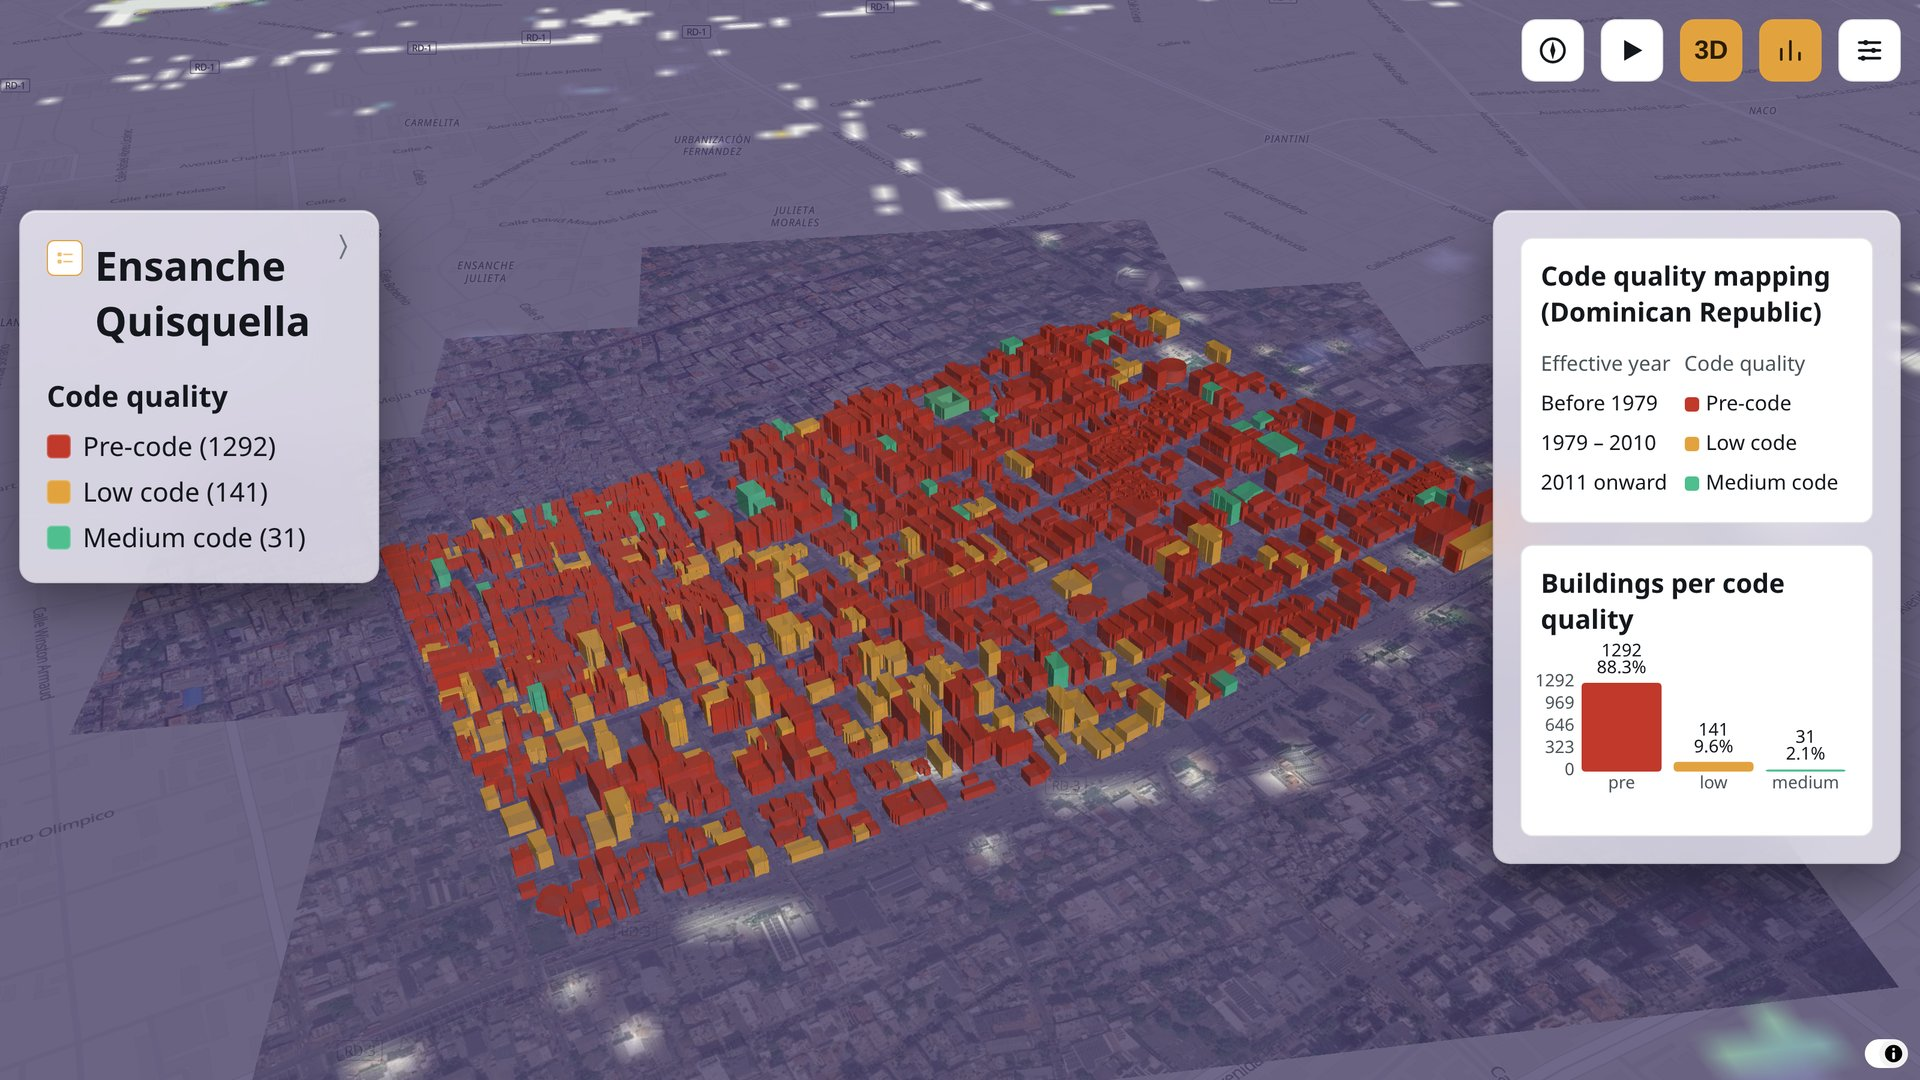
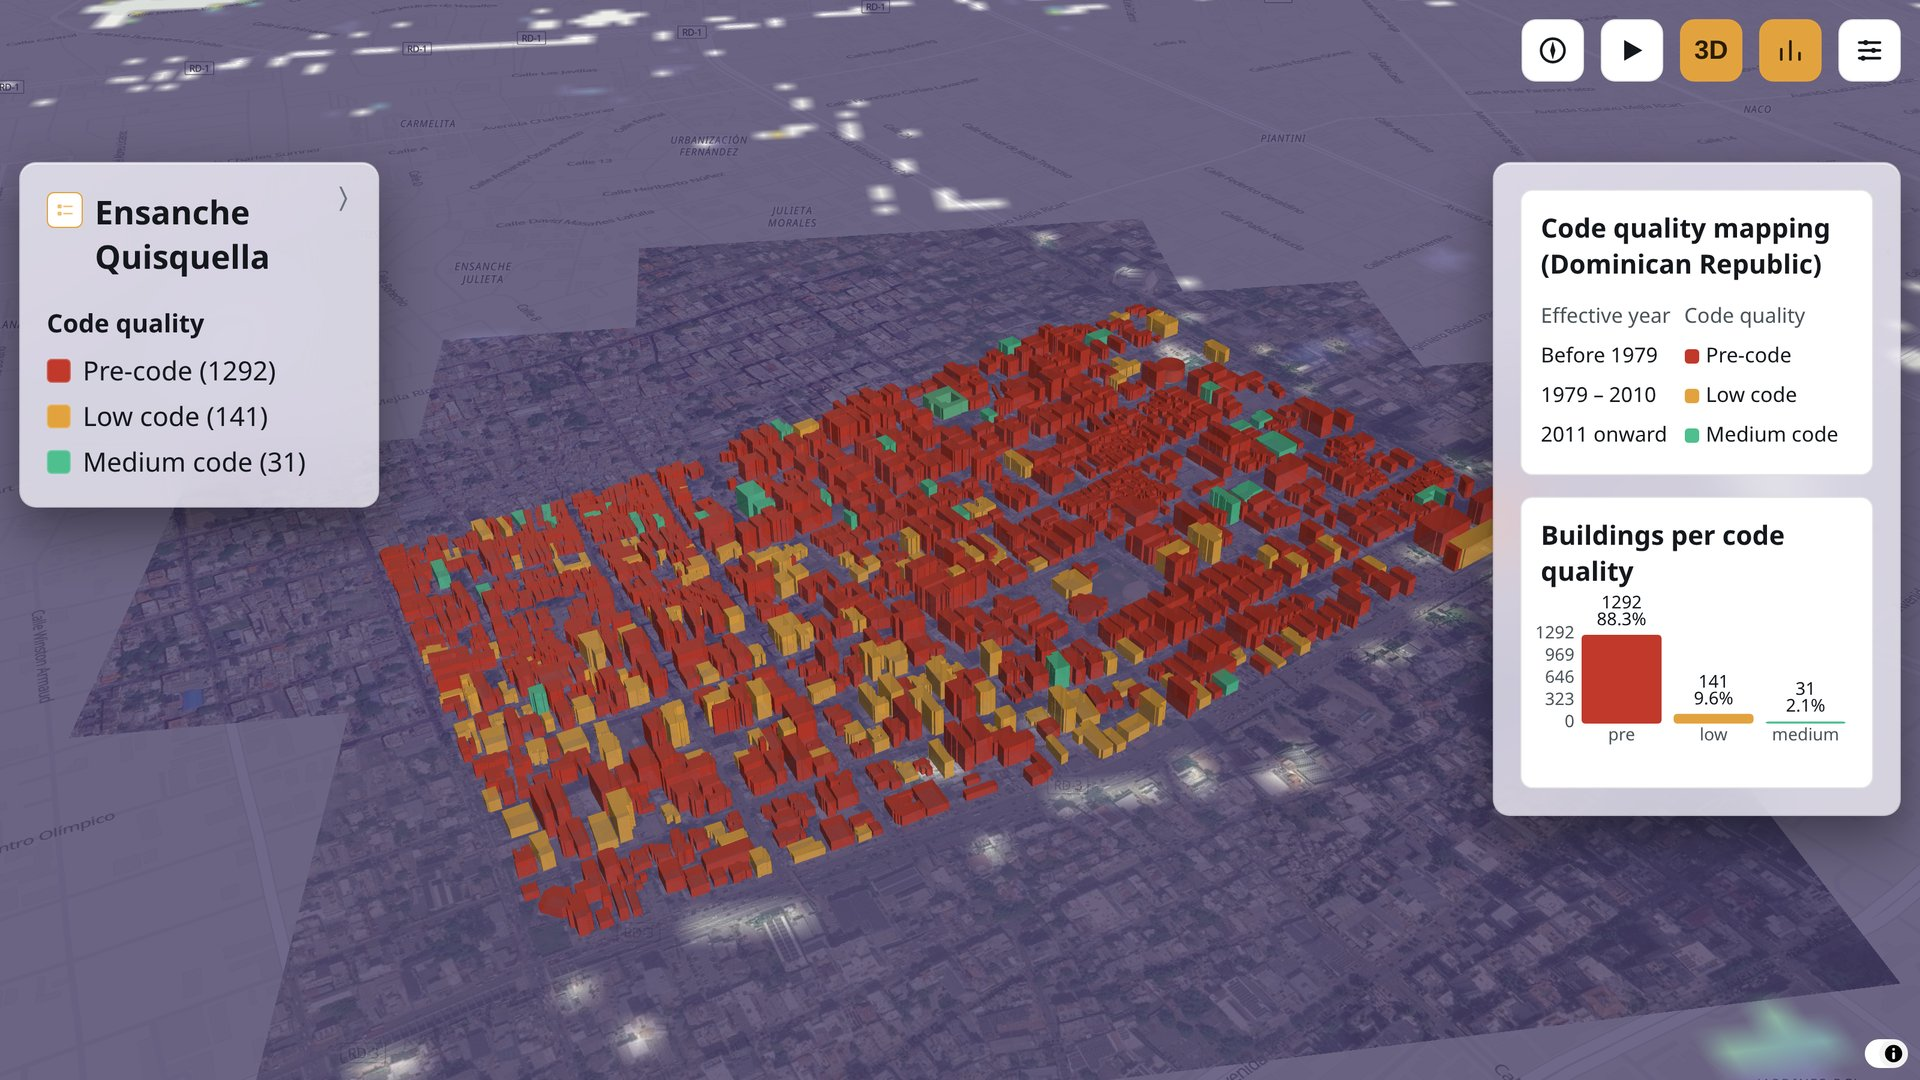
update

diff --git a/maps/structural_system/style.css b/maps/structural_system/style.css
@@ -104,13 +104,13 @@ body,
    legend must stay visible at all times, video mode included. */
 #controls {
   position: absolute;
-  top: 175px;
+  top: 135px;
   left: 16px;
   z-index: 10;
   width: fit-content;
   max-width: 300px;
   min-width: 220px;
-  max-height: calc(100vh - 191px);
+  max-height: calc(100vh - 151px);
   overflow-y: auto;
   border-radius: 14px;
   padding: 22px;
@@ -146,7 +146,7 @@ body,
 }
 
 #controls h1 {
-  font-size: 1.6rem;
+  font-size: 1.3rem;
   margin: 0 0 4px;
   color: var(--text);
 }
@@ -366,7 +366,7 @@ body,
 }
 
 #legend h2 {
-  font-size: 1.15rem;
+  font-size: 1rem;
   margin: 0 0 10px;
   color: var(--text);
 }
@@ -442,11 +442,11 @@ body,
    past the actual chart card, reading as an oversized empty gray box. */
 #charts-panel {
   position: absolute;
-  top: 175px;
+  top: 135px;
   right: 16px;
   z-index: 10;
   width: 520px;
-  max-height: calc(100vh - 191px);
+  max-height: calc(100vh - 151px);
   overflow-y: auto;
   border-radius: 14px;
   padding: 22px;
@@ -455,8 +455,8 @@ body,
 /* comparison view (learning curve + F1 across experiments) is fine at the
    original, less-far-down position. */
 body.view-comparison #charts-panel {
-  top: 165px;
-  max-height: calc(100vh - 181px);
+  top: 125px;
+  max-height: calc(100vh - 141px);
   width: 460px;
 }
 
@@ -472,8 +472,8 @@ body.view-feature_importance #charts-panel {
    slide's actual vertical budget (the map only being 644px tall, not a
    full desktop window) or the evaluation table runs past the bottom. */
 body.view-metrics #charts-panel {
-  top: 110px;
-  max-height: calc(100vh - 126px);
+  top: 85px;
+  max-height: calc(100vh - 101px);
 }
 
 body.view-split #charts-panel {
@@ -481,7 +481,7 @@ body.view-split #charts-panel {
 }
 
 #charts-panel-content h2 {
-  font-size: 1.3rem;
+  font-size: 1.05rem;
   margin: 0 0 16px;
   color: var(--text);
 }
@@ -517,7 +517,7 @@ body.view-split #charts-panel {
   padding: 20px;
 }
 #charts-panel.large-view .chart-card h3 {
-  font-size: 1.15rem;
+  font-size: 0.95rem;
   margin-bottom: 16px;
 }
 

diff --git a/maps/height/style.css b/maps/height/style.css
@@ -104,13 +104,13 @@ body,
    legend must stay visible at all times, video mode included. */
 #controls {
   position: absolute;
-  top: 175px;
+  top: 135px;
   left: 16px;
   z-index: 10;
   width: fit-content;
   max-width: 300px;
   min-width: 220px;
-  max-height: calc(100vh - 191px);
+  max-height: calc(100vh - 151px);
   overflow-y: auto;
   border-radius: 14px;
   padding: 22px;
@@ -146,7 +146,7 @@ body,
 }
 
 #controls h1 {
-  font-size: 1.6rem;
+  font-size: 1.3rem;
   margin: 0 0 4px;
   color: var(--text);
 }
@@ -366,7 +366,7 @@ body,
 }
 
 #legend h2 {
-  font-size: 1.15rem;
+  font-size: 1rem;
   margin: 0 0 10px;
   color: var(--text);
 }
@@ -442,18 +442,18 @@ body,
    past the actual chart card, reading as an oversized empty gray box. */
 #charts-panel {
   position: absolute;
-  top: 175px;
+  top: 135px;
   right: 16px;
   z-index: 10;
   width: 420px;
-  max-height: calc(100vh - 191px);
+  max-height: calc(100vh - 151px);
   overflow-y: auto;
   border-radius: 14px;
   padding: 22px;
 }
 
 #charts-panel-content h2 {
-  font-size: 1.3rem;
+  font-size: 1.05rem;
   margin: 0 0 16px;
   color: var(--text);
 }

diff --git a/maps/shape_parameters/style.css b/maps/shape_parameters/style.css
@@ -104,13 +104,13 @@ body,
    legend must stay visible at all times, video mode included. */
 #controls {
   position: absolute;
-  top: 175px;
+  top: 135px;
   left: 16px;
   z-index: 10;
   width: fit-content;
   max-width: 300px;
   min-width: 220px;
-  max-height: calc(100vh - 191px);
+  max-height: calc(100vh - 151px);
   overflow-y: auto;
   border-radius: 14px;
   padding: 22px;
@@ -146,7 +146,7 @@ body,
 }
 
 #controls h1 {
-  font-size: 1.6rem;
+  font-size: 1.3rem;
   margin: 0 0 4px;
   color: var(--text);
 }
@@ -366,7 +366,7 @@ body,
 }
 
 #legend h2 {
-  font-size: 1.15rem;
+  font-size: 1rem;
   margin: 0 0 10px;
   color: var(--text);
 }
@@ -442,18 +442,18 @@ body,
    past the actual chart card, reading as an oversized empty gray box. */
 #charts-panel {
   position: absolute;
-  top: 175px;
+  top: 135px;
   right: 16px;
   z-index: 10;
   width: 340px;
-  max-height: calc(100vh - 191px);
+  max-height: calc(100vh - 151px);
   overflow-y: auto;
   border-radius: 14px;
   padding: 22px;
 }
 
 #charts-panel-content h2 {
-  font-size: 1.3rem;
+  font-size: 1.05rem;
   margin: 0 0 16px;
   color: var(--text);
 }

diff --git a/maps/relative_position/style.css b/maps/relative_position/style.css
@@ -104,13 +104,13 @@ body,
    legend must stay visible at all times, video mode included. */
 #controls {
   position: absolute;
-  top: 175px;
+  top: 135px;
   left: 16px;
   z-index: 10;
   width: fit-content;
   max-width: 300px;
   min-width: 220px;
-  max-height: calc(100vh - 191px);
+  max-height: calc(100vh - 151px);
   overflow-y: auto;
   border-radius: 14px;
   padding: 22px;
@@ -146,7 +146,7 @@ body,
 }
 
 #controls h1 {
-  font-size: 1.6rem;
+  font-size: 1.3rem;
   margin: 0 0 4px;
   color: var(--text);
 }
@@ -366,7 +366,7 @@ body,
 }
 
 #legend h2 {
-  font-size: 1.15rem;
+  font-size: 1rem;
   margin: 0 0 10px;
   color: var(--text);
 }
@@ -410,18 +410,18 @@ body,
 /* ---------- charts panel (right side, persistent) ---------- */
 #charts-panel {
   position: absolute;
-  top: 175px;
+  top: 135px;
   right: 16px;
   z-index: 10;
   width: 340px;
-  max-height: calc(100vh - 191px);
+  max-height: calc(100vh - 151px);
   overflow-y: auto;
   border-radius: 14px;
   padding: 22px;
 }
 
 #charts-panel-content h2 {
-  font-size: 1.3rem;
+  font-size: 1.05rem;
   margin: 0 0 16px;
   color: var(--text);
 }

diff --git a/maps/year/style.css b/maps/year/style.css
@@ -104,13 +104,13 @@ body,
    legend must stay visible at all times, video mode included. */
 #controls {
   position: absolute;
-  top: 175px;
+  top: 135px;
   left: 16px;
   z-index: 10;
   width: fit-content;
   max-width: 300px;
   min-width: 220px;
-  max-height: calc(100vh - 191px);
+  max-height: calc(100vh - 151px);
   overflow-y: auto;
   border-radius: 14px;
   padding: 22px;
@@ -146,7 +146,7 @@ body,
 }
 
 #controls h1 {
-  font-size: 1.6rem;
+  font-size: 1.3rem;
   margin: 0 0 4px;
   color: var(--text);
 }
@@ -366,7 +366,7 @@ body,
 }
 
 #legend h2 {
-  font-size: 1.15rem;
+  font-size: 1rem;
   margin: 0 0 10px;
   color: var(--text);
 }
@@ -410,18 +410,18 @@ body,
 /* ---------- charts panel (right side, persistent) ---------- */
 #charts-panel {
   position: absolute;
-  top: 175px;
+  top: 135px;
   right: 16px;
   z-index: 10;
   width: 340px;
-  max-height: calc(100vh - 191px);
+  max-height: calc(100vh - 151px);
   overflow-y: auto;
   border-radius: 14px;
   padding: 22px;
 }
 
 #charts-panel-content h2 {
-  font-size: 1.3rem;
+  font-size: 1.05rem;
   color: var(--text);
 }
 

diff --git a/maps/roof_material/style.css b/maps/roof_material/style.css
@@ -104,13 +104,13 @@ body,
    legend must stay visible at all times, video mode included. */
 #controls {
   position: absolute;
-  top: 175px;
+  top: 135px;
   left: 16px;
   z-index: 10;
   width: fit-content;
   max-width: 300px;
   min-width: 220px;
-  max-height: calc(100vh - 191px);
+  max-height: calc(100vh - 151px);
   overflow-y: auto;
   border-radius: 14px;
   padding: 22px;
@@ -146,7 +146,7 @@ body,
 }
 
 #controls h1 {
-  font-size: 1.6rem;
+  font-size: 1.3rem;
   margin: 0 0 4px;
   color: var(--text);
 }
@@ -366,7 +366,7 @@ body,
 }
 
 #legend h2 {
-  font-size: 1.15rem;
+  font-size: 1rem;
   margin: 0 0 10px;
   color: var(--text);
 }
@@ -410,7 +410,7 @@ body,
 /* ---------- charts panel (right side, persistent) ---------- */
 #charts-panel {
   position: absolute;
-  top: 175px;
+  top: 135px;
   right: 16px;
   bottom: 16px;
   z-index: 10;
@@ -421,7 +421,7 @@ body,
 }
 
 #charts-panel-content h2 {
-  font-size: 1.3rem;
+  font-size: 1.05rem;
   margin: 0 0 16px;
   color: var(--text);
 }

diff --git a/maps/intro/main.js b/maps/intro/main.js
@@ -73,7 +73,7 @@ const TILT_TRANSITION_MS = 1_000;
 const ORBIT_DEG_PER_SEC = 3;
 const TILT_PITCH = 58; // same hard-but-not-extreme tilt for both the default view's 2D->3D transition and the attributes tour
 const SHOWCASE_IDLE_RESUME_MS = 30_000;
-const LABEL_ZOOM_THRESHOLD = 13; // below this, show the country marker instead of per-dataset labels/outlines
+const LABEL_ZOOM_THRESHOLD = 9; // below this, show the country marker instead of per-dataset labels/outlines
 
 const WORLD_CENTER = { lng: 10, lat: 20 };
 const WORLD_ZOOM = 1.3;
